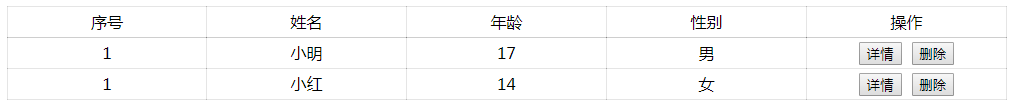
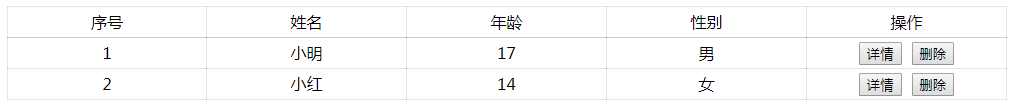
使用说明修改

diff --git a/README.md b/README.md
@@ -57,7 +57,7 @@ new Vue({
 				sex:'男'
 			},
 			{
-				index:1,
+				index:2,
 				name:'小红',
 				age:'14',
 				sex:'女'
@@ -119,7 +119,7 @@ new Vue({
 				sex:'男'
 			},
 			{
-				index:1,
+				index:2,
 				name:'小红',
 				age:'14',
 				sex:{
@@ -196,7 +196,7 @@ new Vue({
 				sex:'男'
 			},
 			{
-				index:1,
+				index:2,
 				name:'小红',
 				age:'14',
 				sex:'女'
